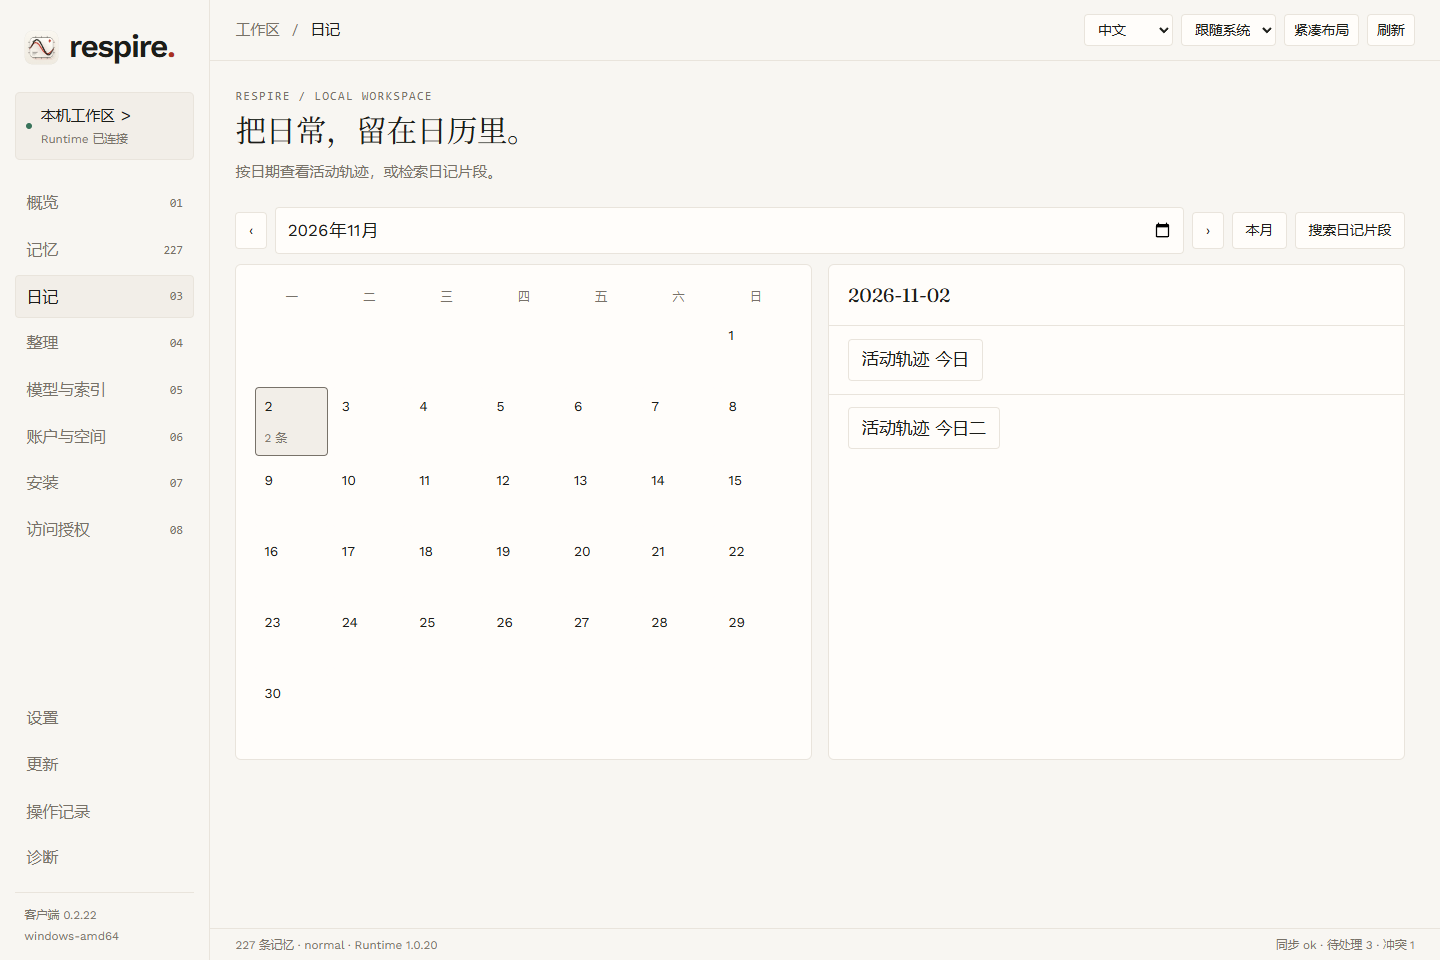
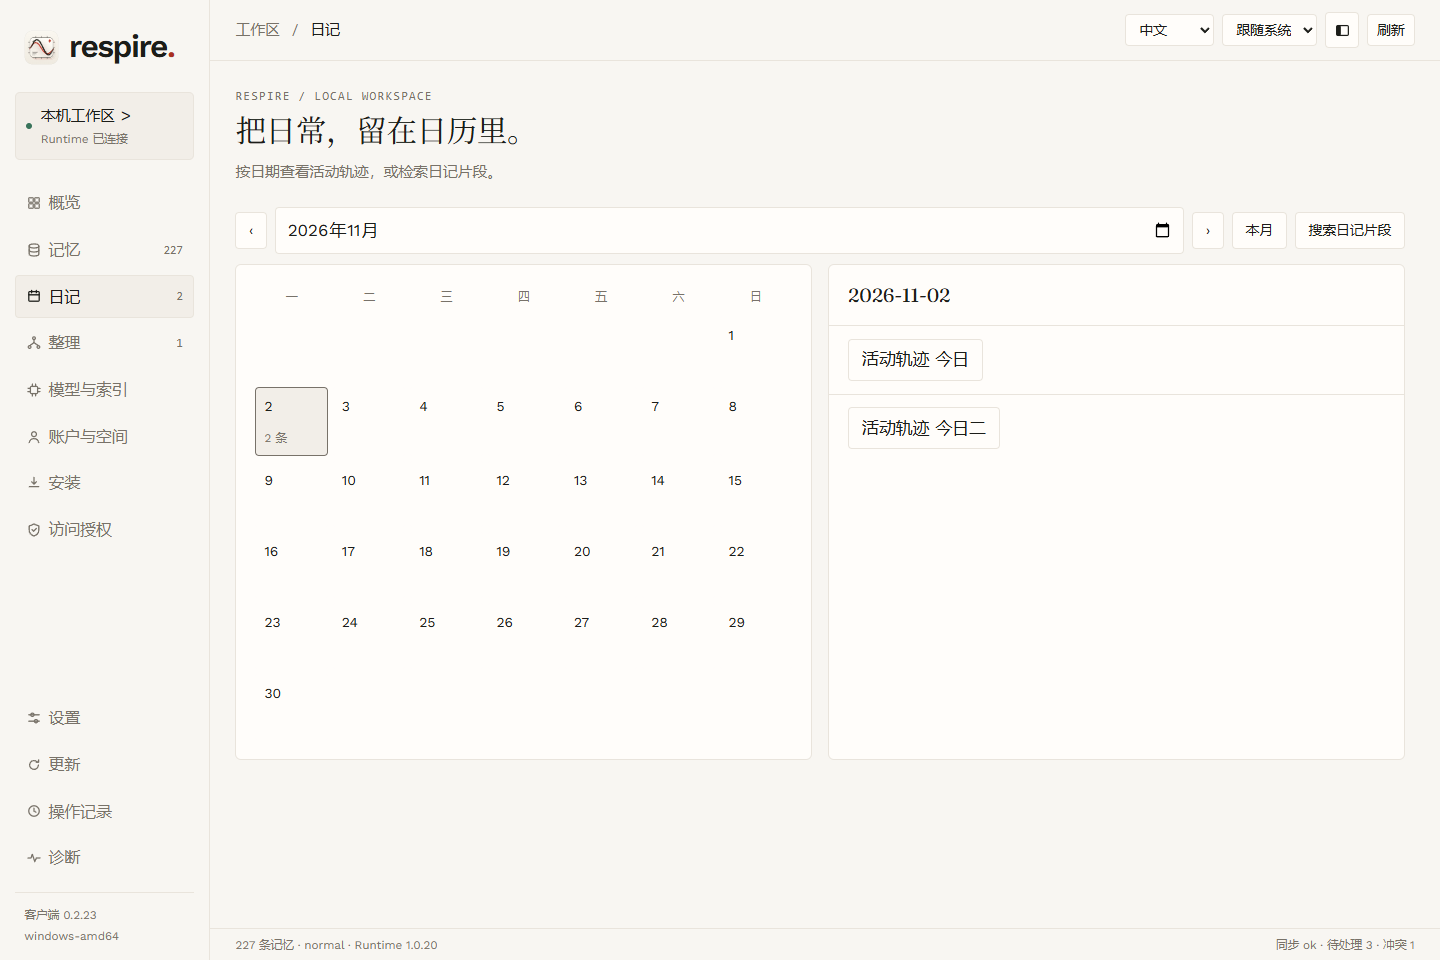
docs: update Client 2 guide for 0.2.23
Refresh the bilingual screenshots and document update controls, resizable panels, and memory directory loading for the released client.

diff --git a/docs/client.md b/docs/client.md
@@ -17,7 +17,7 @@ Download a matching application from [client releases](https://github.com/risens
 | Install | Select an instruction mode, detect targets, inject or remove instructions, and prepare or install host plugins. Changing instruction mode rewrites instructions for all enabled agents without changing plugins; disabling an agent removes its injected instructions but keeps its plugin. Some plugins require the host UI to finish installation. DSH instruction injection overwrites `~/.dsh/AGENTS.md` and removes a symlink at that path; inspect and back up the target first. |
 | Access Grants | Create, inspect and revoke read-only subtree grants, including inherited access. |
 | Settings | Change theme, layout, language, login startup, automatic Runtime connection and updates, channels, work and diary modes, and data directory; import/export memories, back up the database, import shared material, and import/export client settings. |
-| Updates | Check, download, cancel and apply client updates; check and install or update the CLI, or open release and mirror pages. With automatic updates enabled, the client can restart after downloading when no business operation is running. |
+| Updates | Configure automatic updates and check intervals separately for the client and Runtime. Check, download, cancel and apply client updates, or check and install or update the CLI. With automatic restart enabled, the client can restart after downloading when no business operation is running. |
 | Operations | Inspect write status, request IDs and session receipts; query the original request when its result is unknown. Host-operation outcomes must be checked on their own page. |
 | Diagnostics | Inspect connection and health, run the CLI doctor and export diagnostics. |
 | Tray | The quick panel shows status and can sync or open the main window. The panel can be refreshed manually and refreshes when focused or shown again. Its menu can start or stop Runtime, check updates and quit the client while leaving Runtime running. |
@@ -26,7 +26,7 @@ The graph displays up to 300 nodes per page, with cross-page relationships, zoom
 
 ## Screen walkthrough {#screen-walkthrough}
 
-The page and tray screenshots show the Client 2 0.2.22 frontend running in a browser with simulated data. Accounts, counts and task states are examples. These images illustrate the interface; they are not native acceptance results for each platform. Some interface text is still Chinese when English is selected.
+The page and tray screenshots show the Client 2 0.2.23 frontend running in a browser with simulated data. Accounts, counts and task states are examples. These images illustrate the interface; they are not native acceptance results for each platform. Some interface text is still Chinese when English is selected.
 
 ### Overview and tray {#overview-and-tray}
 
@@ -45,6 +45,8 @@ In **Memories**, choose tree, list, cards or graph. Select an entry to read it, 
 In tree and list views, click a title to open the entry, or click elsewhere on the row to select it. Hold Ctrl (Command on macOS) to select multiple entries, or Shift to select a visible range. Once multiple entries are selected, use **Merge selected**. Library search returns at most 50 results.
 
 Directory filters include type, storage area, project and tags, with a sort control. Project and tag filters use exact matches. Use **Load more** when more entries are available; these filters apply only to loaded entries.
+
+With a Runtime that supports metadata lists, the client attempts to complete the memory directory, requesting up to 100,000 entries. In sidebar layout, drag the sidebar edge to adjust its width. On the memory page, drag the divider between the directory and reader; the divider is unavailable in graph view.
 
 After a deletion, the current page offers **Restore deleted memory**. If that control is no longer available, use a compatible CLI with the original ID to restore the entry. Permanently purging ciphertext cannot be undone.
 
@@ -78,7 +80,7 @@ Open **Accounts & Spaces** to sign in, recover keys or initialize a new offline 
 
 On **Install**, inspect the target, select an instruction mode and enable an agent. Review the result, then finish any host-specific installation or hook approval in the agent. Disabling an agent removes injected instructions but keeps the plugin. Changing the mode rewrites instructions for enabled agents. Review the DSH path and back it up before injection. The [plugin pages](plugins/) explain each host.
 
-Choose **Details** beside an agent to inspect its destination and plugin information. Enabling an agent can change the destination file immediately, so review existing content first. The Install page in client 0.2.22 does not offer a Codex file preview.
+Choose **Details** beside an agent to inspect its destination and plugin information. Enabling an agent can change the destination file immediately, so review existing content first. The Install page in client 0.2.23 does not offer a Codex file preview.
 
 Some targets are initially collapsed; choose **Show … more** to see them. Instruction modes are normal, read-only and off. After selecting one, choose **Apply and rewrite enabled prompts**.
 
@@ -97,6 +99,8 @@ Use **Settings** for appearance, language, startup, Runtime connection and data 
 If a write shows an unconfirmed result, choose **Query original request** in **Operations**, then check the corresponding page. Full receipts are not retained after the client restarts. In **Diagnostics**, you can run a check or choose a destination for an exported report.
 
 Settings also controls workspace mode, diary recording, fonts and reading typography. The interface language and CLI display language are configured separately. A client-settings backup does not contain memory keys; save memory exports and database backups separately.
+
+On **Updates**, configure automatic client downloads, automatic client restart and automatic installation of the client-managed Runtime separately. Choose a check interval for the client and Runtime independently. If automatic restart is off, choose **Restart & apply** after downloading; client updates are not applied while a business operation is running.
 
 ![Client settings page](/client2/settings-en.png)
 

diff --git a/.audit/report.md b/.audit/report.md
@@ -1,5 +1,11 @@
 # 文档审查报告
 
+## Client 2 0.2.23 版本更新
+
+客户端在审查期间发布了 `v0.2.23`，对应提交 `8637de4efd0c20108325741766e11a50b66fb345`。已对照该版本的更新设置、导航和记忆目录代码，并将页面及托盘截图更新为该版本的前端。截图仍使用模拟数据，不代表真实账户或原生平台验收。
+
+这一版本新增独立的更新开关与检查频率、侧栏和记忆目录宽度调整，以及有条件补全记忆目录。中英文客户端指南已补充这些功能和自动重启的条件。
+
 ## Client 2 0.2.22 补充审查
 
 本轮以 Client 2 发布标签 `v0.2.22` 的提交 `866e34c9daa89b9a86b6b9da1a5d8d021f62dd71` 为依据。客户端工作树另有未提交修改；这些修改没有作为发布功能写入文档。以下状态只覆盖本轮检查，不能替代各平台的原生验收。
@@ -7,7 +13,7 @@
 | 发现 | 处理与依据 | 仍需核验 |
 | --- | --- | --- |
 | 客户端指南声称 Codex 注入有界面预览。0.2.22 的安装页没有这一入口。 | 已修正中英文 `docs/client.md`；依据为发布版 `internal/desktop/frontend/pages/injection.js`。CLI 历史参考保留其版本范围。 | 没有执行真实宿主的注入。 |
-| 原有五组客户端截图来自 0.2.17，且缺少多个页面。 | 已补充 0.2.22 的 12 个页面和托盘截图，使用发布版前端和模拟数据。 | 模拟数据不验证 Runtime、真实账户或原生窗口。 |
+| 原有五组客户端截图来自 0.2.17，且缺少多个页面。 | 先补充 0.2.22 的页面和托盘截图，后按上方记录更新至 0.2.23。 | 模拟数据不验证 Runtime、真实账户或原生窗口。 |
 | Windows 安装页仍以 CLI 为主要路径。 | 中英文页面已将桌面客户端放在前面，并说明 Node.js 只用于下方的 CLI 路径。 | 未在新安装的 Windows 系统上执行完整安装。 |
 | 0.2.22 英文界面的部分文字仍为中文。 | 截图保留真实界面文字，并在客户端指南中注明。 | 客户端翻译需要在客户端仓库修复；本轮不修改该仓库。 |
 | 首页与仓库列表仍只列出八个插件，遗漏 DSH 和 Magpie。 | 已更新中英文首页与仓库列表；对照 `docs/plugins/index.md` 的十个插件条目。 | 本轮未重复执行各宿主的插件安装。 |

diff --git a/docs/getting-started.md b/docs/getting-started.md
@@ -19,7 +19,7 @@ On first launch, choose the interface language when prompted; you can change it 
 
 ![Desktop overview with Runtime and sync status](/client2/overview-en.png)
 
-The screenshot shows the Client 2 0.2.22 frontend with simulated data, not a real account. The interface and status can differ on your device.
+The screenshot shows the Client 2 0.2.23 frontend with simulated data, not a real account. The interface and status can differ on your device.
 
 ## Sign in or create a local library {#sign-in-or-create-a-local-library}
 

diff --git a/docs/zh/getting-started.md b/docs/zh/getting-started.md
@@ -19,7 +19,7 @@
 
 ![桌面端概览及 Runtime、同步状态](/client2/overview-zh.png)
 
-截图展示 Client 2 0.2.22 的前端，使用模拟数据，并非真实账户。实际界面和状态可能不同。
+截图展示 Client 2 0.2.23 的前端，使用模拟数据，并非真实账户。实际界面和状态可能不同。
 
 ## 登录或创建本地记忆库 {#sign-in-or-create-a-local-library}
 
